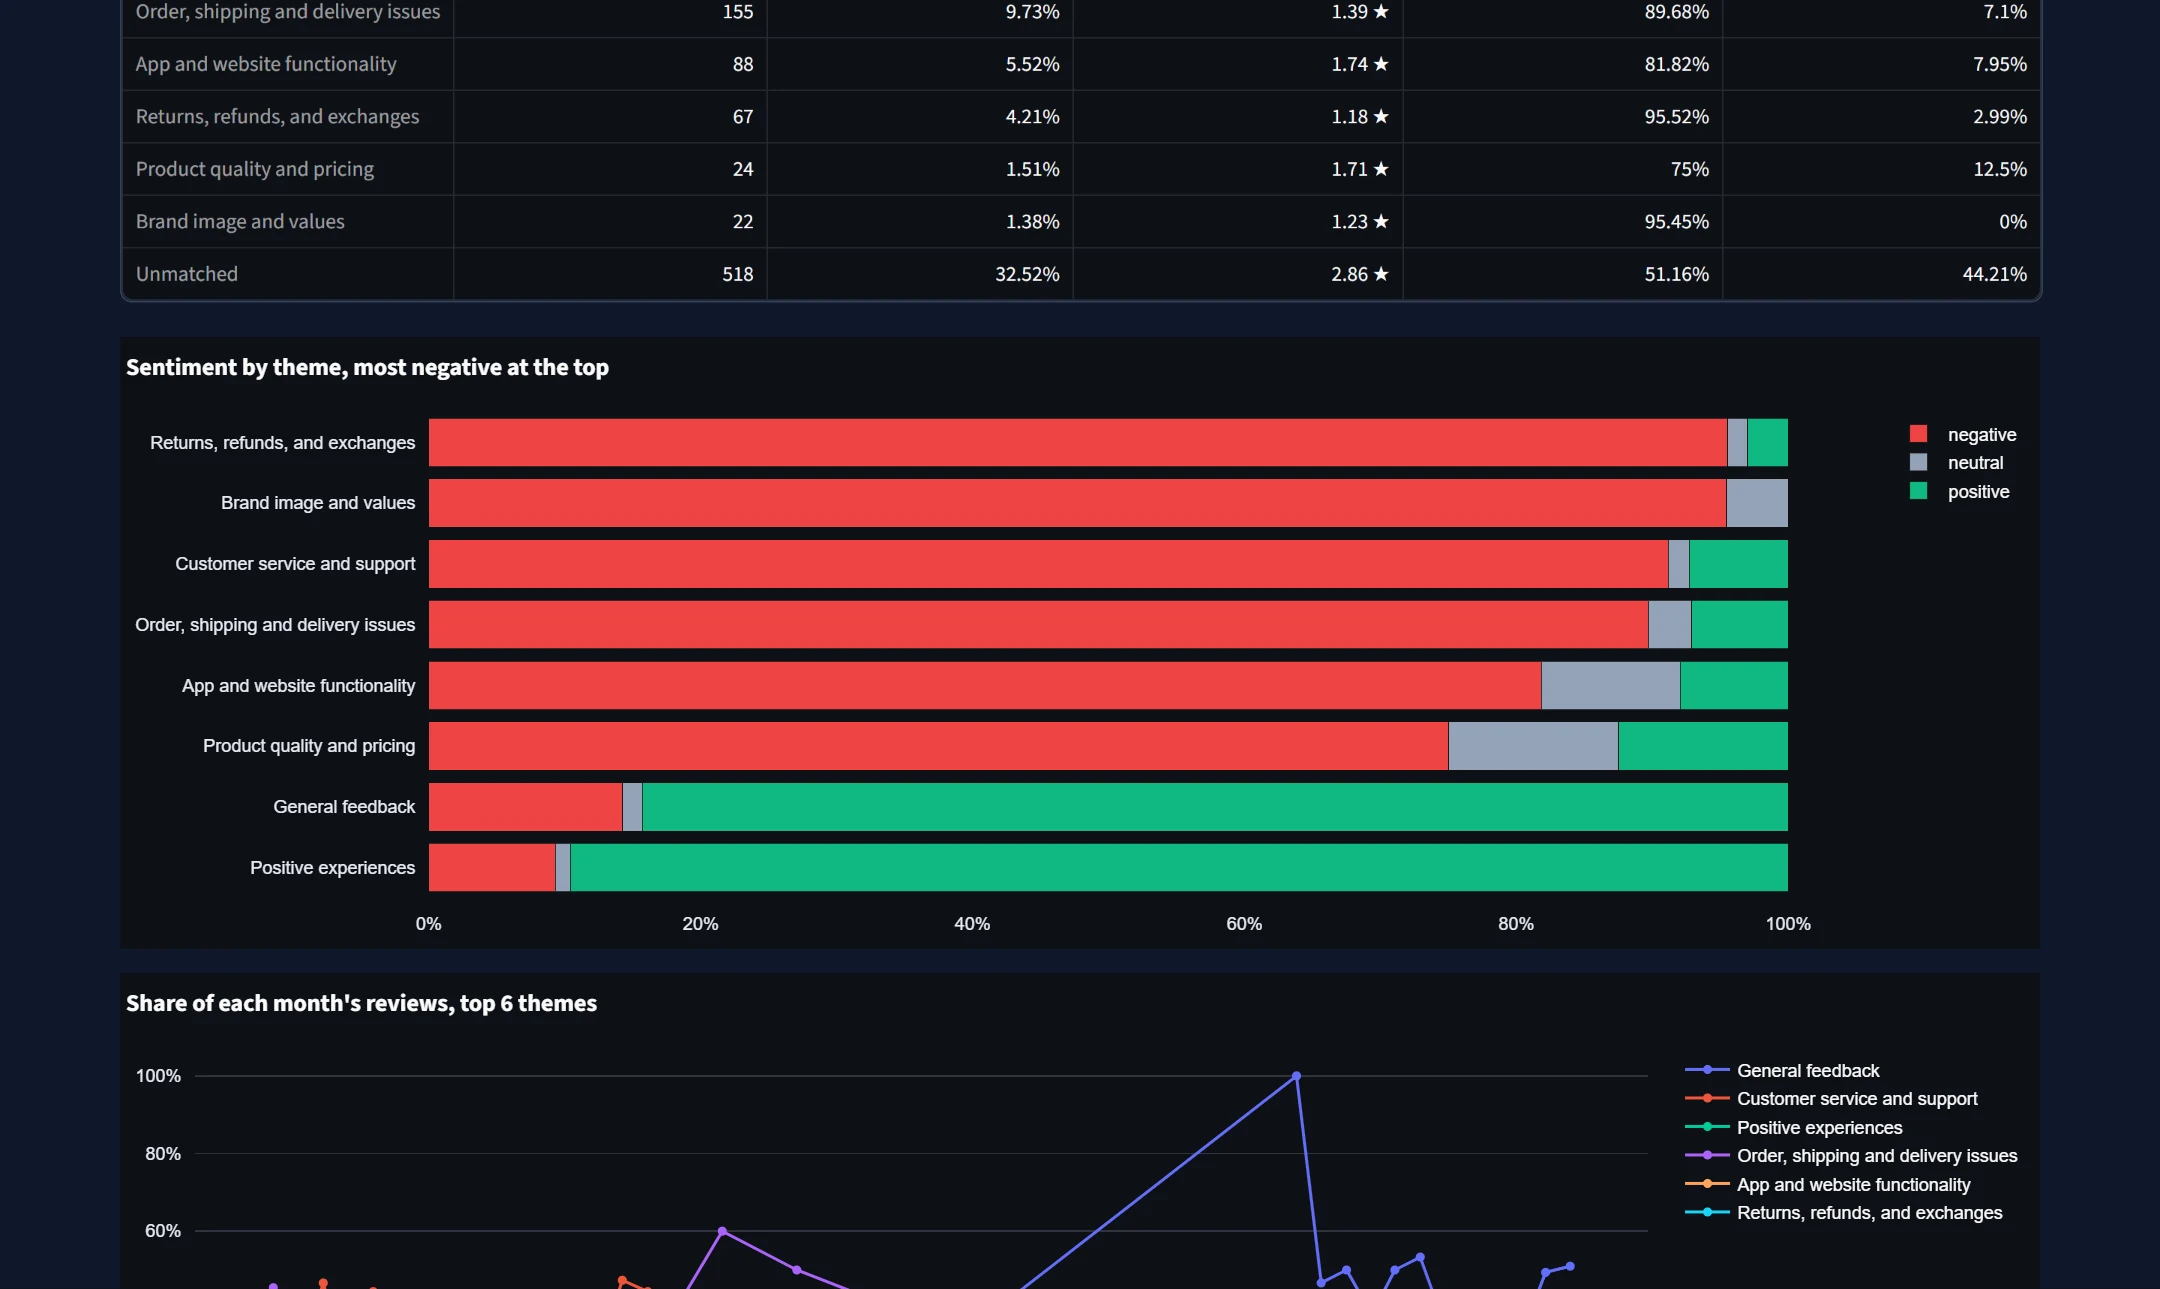
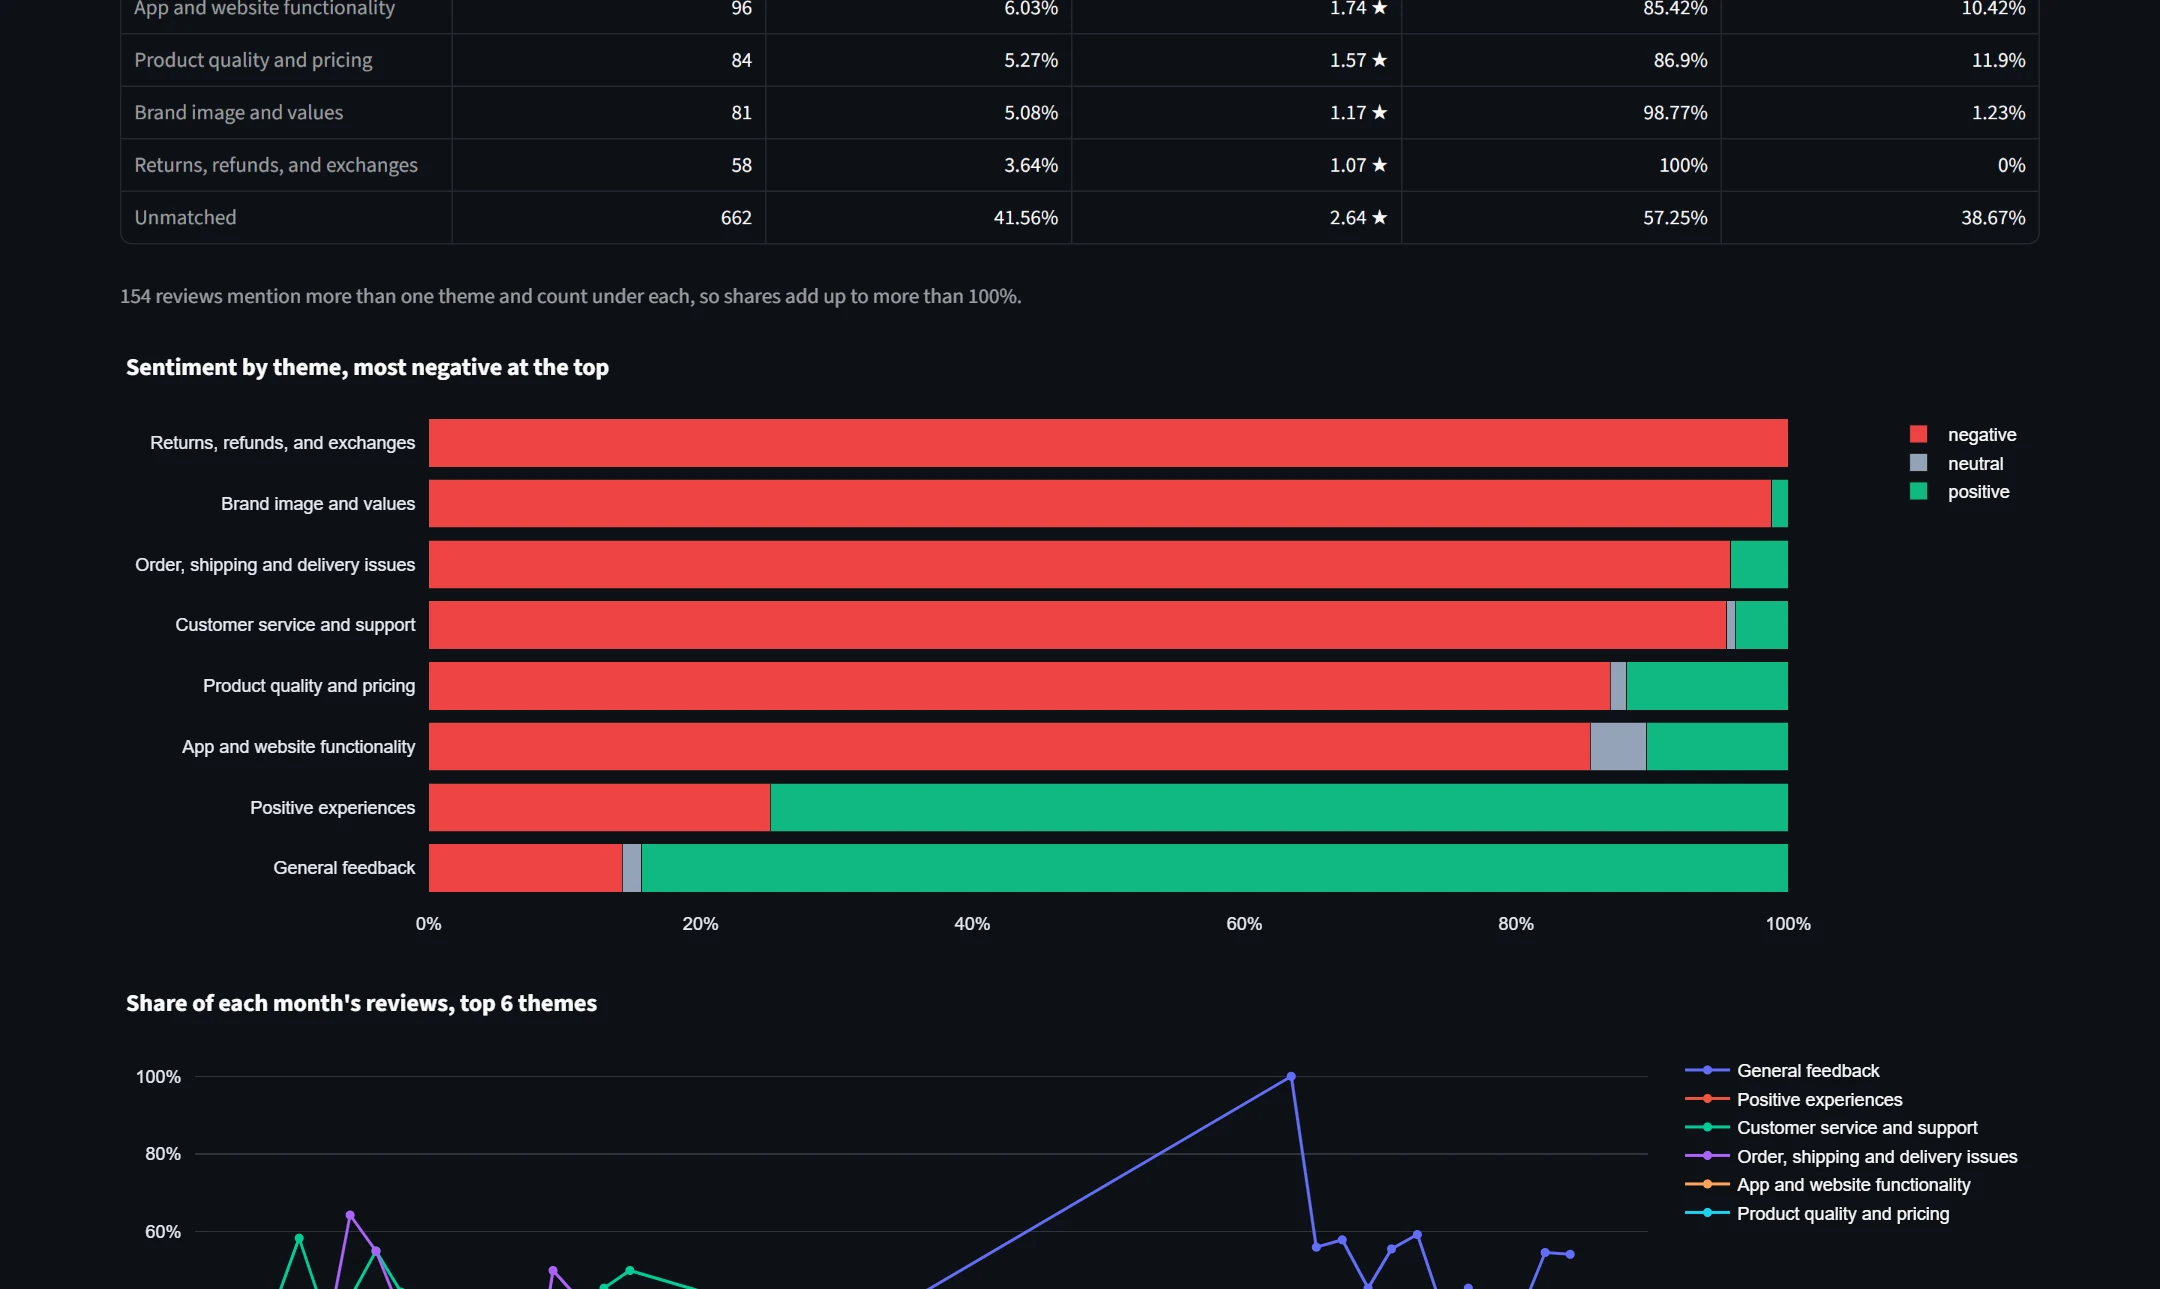
Voice of Customer page: multiple themes per review, Bluesky and YouTube, per-theme sentiment, new report screenshots

diff --git a/projects/voiceofcustomer/index.html b/projects/voiceofcustomer/index.html
@@ -309,10 +309,10 @@
     <div class="shell">
       <figure class="reveal shot-lead">
         <div class="shot">
-          <img src="app-report.webp" alt="The report for 1,593 Nike and Adidas reviews, classified by keywords alone: source and language filters, headline numbers (2.89 stars, 51% negative, 67% matched to a theme), a table of themes with share, average rating and sentiment, and the start of a sentiment chart."
-               width="2160" height="1265" loading="lazy" decoding="async">
+          <img src="app-report.webp" alt="The report for 1,593 Nike and Adidas reviews, classified by keywords alone: source and language filters, headline numbers (2.89 stars, 51% negative, 58% matched to a theme), a table of themes with share, average rating and sentiment, and a note that 154 reviews mention more than one theme."
+               width="2160" height="1289" loading="lazy" decoding="async">
         </div>
-        <figcaption>Every theme with its share, average rating and sentiment, placed by keywords with no AI. Filter the sources or languages and the whole report follows.</figcaption>
+        <figcaption>Every theme with its share, average rating and sentiment, placed by keywords with no AI. A review counts under every theme it mentions, so the shares add up to more than 100%.</figcaption>
       </figure>
 
       <div class="stats">
@@ -321,8 +321,8 @@
           <span class="stat-l">Reviews for one brand from six store apps, collected in about 20 seconds.</span>
         </div>
         <div class="stat reveal" style="--d:.06s">
-          <span class="stat-n">7</span>
-          <span class="stat-l">Ways in: two app stores, Sitejabber, PissedConsumer, Reddit, any page with review markup, and your own file.</span>
+          <span class="stat-n">9</span>
+          <span class="stat-l">Ways in: two app stores, Sitejabber, PissedConsumer, Reddit, Bluesky, YouTube comments, any page with review markup, and your own file.</span>
         </div>
         <div class="stat reveal" style="--d:.12s">
           <span class="stat-n">0</span>
@@ -348,8 +348,9 @@
           <h3>Sentiment from the stars</h3>
           <p>
             A one or two star review is negative and a four or five is positive.
-            Posts with no rating, such as Reddit threads, are scored by a
-            rule-based text scorer instead.
+            Posts with no rating, such as Reddit or Bluesky, and three star
+            reviews are scored by a rule-based text scorer, one theme's sentences
+            at a time, so "comfy shoes, awful delivery" is both.
           </p>
         </article>
         <article class="card reveal" style="--d:.06s">
@@ -365,21 +366,21 @@
           <span class="card-tag">Optional</span>
           <h3>AI for the leftovers</h3>
           <p>
-            Keywords place each review first. Only the reviews no keyword fits go
-            to the model, 80 at a time, and every row records which method
-            placed it.
+            Keywords place each review first, under every theme one of its
+            sentences mentions. Only the reviews no keyword fits go to the model,
+            80 at a time, and every row records which method placed it.
           </p>
         </article>
       </div>
 
       <figure class="reveal shot-lead">
         <div class="shot">
-          <img src="app-sentiment.webp" alt="A stacked bar chart of sentiment by theme. Returns, refunds and exchanges is the most negative theme at the top, positive experiences the least negative at the bottom."
+          <img src="app-sentiment.webp" alt="A stacked bar chart of sentiment by theme. Returns, refunds and exchanges is the most negative theme at the top, positive experiences and general feedback the least negative at the bottom."
                width="2160" height="1289" loading="lazy" decoding="async">
         </div>
         <figcaption>
           Sentiment by theme, sorted so the most negative theme sits at the top.
-          Here, <strong>returns and refunds</strong> is 96% negative across both brands.
+          Here, <strong>returns and refunds</strong> is 100% negative across both brands.
         </figcaption>
       </figure>
 
